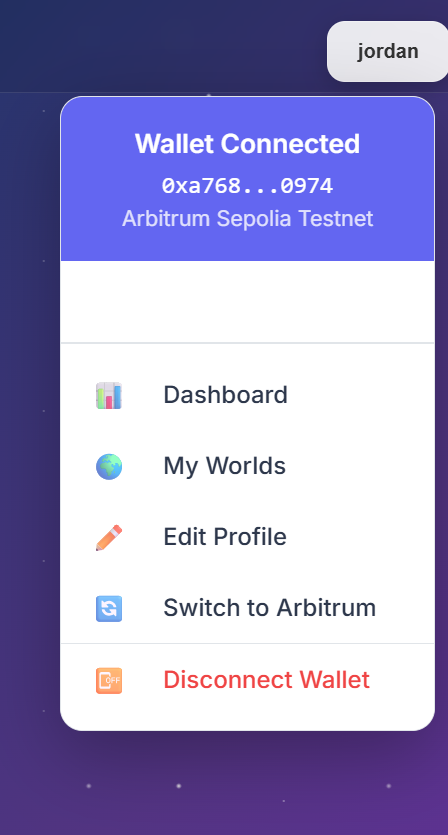
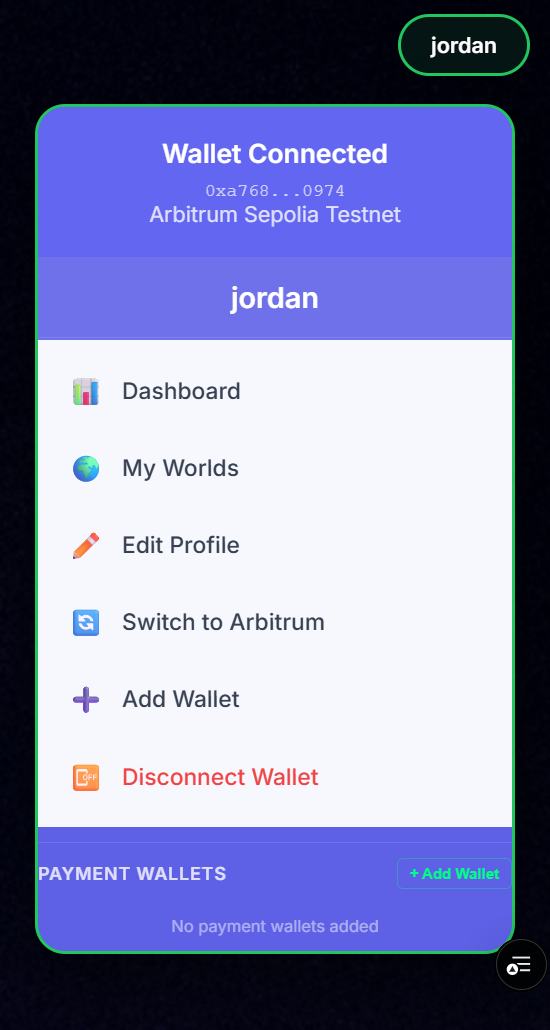
add wallet fix

diff --git a/profile-setup.html b/profile-setup.html
@@ -9,6 +9,7 @@
     <link href="https://fonts.googleapis.com/css2?family=Inter:wght@300;400;500;600;700;800&family=Space+Grotesk:wght@300;400;500;600;700&display=swap" rel="stylesheet">
     <link rel="stylesheet" href="css/styles.css">
     <link rel="stylesheet" href="css/profile.css">
+    <link rel="stylesheet" href="css/multi-wallet.css">
 </head>
 <body class="profile-setup-page">
     <div class="bg" id="bg"></div>
@@ -111,8 +112,93 @@
                     </div>
                 </div>
 
-                <!-- Step 3: Preferences -->
+                <!-- Step 3: Wallet Management -->
                 <div class="form-step" id="step3">
+                    <h2>💳 Payment Wallets</h2>
+                    <p class="step-description">Add wallets to receive tips and payments from your audience (optional)</p>
+                    
+                    <div class="wallet-management-section">
+                        <div class="primary-wallet-info">
+                            <div class="wallet-item primary-wallet">
+                                <div class="wallet-icon">🔗</div>
+                                <div class="wallet-info">
+                                    <div class="wallet-label">Primary Wallet (ETH)</div>
+                                    <div class="wallet-address" id="primaryWalletAddress">Loading...</div>
+                                    <div class="wallet-note">Used for authentication and account ownership</div>
+                                </div>
+                                <div class="wallet-badge">Primary</div>
+                            </div>
+                        </div>
+                        
+                        <div class="secondary-wallets">
+                            <div class="wallet-section-header">
+                                <h3>Additional Payment Wallets</h3>
+                                <button type="button" class="add-wallet-btn" onclick="showAddWalletForm()">
+                                    ➕ Add Wallet
+                                </button>
+                            </div>
+                            
+                            <div id="walletsList" class="wallets-list">
+                                <!-- Wallets will be dynamically loaded here -->
+                            </div>
+                            
+                            <div id="addWalletForm" class="add-wallet-form" style="display: none;">
+                                <div class="form-group">
+                                    <label for="walletType">Wallet Type</label>
+                                    <select id="walletType" class="form-input" onchange="updateWalletTypeUI()">
+                                        <option value="">Select wallet type...</option>
+                                        <option value="bitcoin">₿ Bitcoin</option>
+                                        <option value="solana">◎ Solana</option>
+                                    </select>
+                                </div>
+                                
+                                <div class="form-group" id="walletAddressGroup" style="display: none;">
+                                    <label for="walletAddress">Wallet Address</label>
+                                    <input type="text" id="walletAddress" class="form-input" 
+                                           placeholder="Enter wallet address..."
+                                           oninput="validateWalletAddress()">
+                                    <div id="walletValidation" class="validation-message" style="display: none;"></div>
+                                </div>
+                                
+                                <div class="form-group" id="walletLabelGroup" style="display: none;">
+                                    <label for="walletLabel">Label (Optional)</label>
+                                    <input type="text" id="walletLabel" class="form-input" 
+                                           placeholder="e.g., Main Bitcoin Wallet">
+                                </div>
+                                
+                                <div class="form-group" id="walletNetworkGroup" style="display: none;">
+                                    <label for="walletNetwork">Network</label>
+                                    <select id="walletNetwork" class="form-input">
+                                        <option value="mainnet">Mainnet</option>
+                                        <option value="testnet">Testnet</option>
+                                    </select>
+                                </div>
+                                
+                                <div class="form-actions">
+                                    <button type="button" class="btn-secondary" onclick="cancelAddWallet()">
+                                        Cancel
+                                    </button>
+                                    <button type="button" id="addWalletSubmitBtn" class="btn-primary" 
+                                            onclick="addWallet()" disabled>
+                                        Add Wallet
+                                    </button>
+                                </div>
+                            </div>
+                        </div>
+                    </div>
+
+                    <div class="form-actions">
+                        <button type="button" class="btn-back" onclick="prevStep()">
+                            Back
+                        </button>
+                        <button type="button" class="btn-next" onclick="nextStep()">
+                            Continue
+                        </button>
+                    </div>
+                </div>
+
+                <!-- Step 4: Preferences -->
+                <div class="form-step" id="step4">
                     <h2>Preferences</h2>
                     
                     <div class="form-group">
@@ -170,8 +256,8 @@
                     </div>
                 </div>
 
-                <!-- Step 4: Terms and Completion -->
-                <div class="form-step" id="step4">
+                <!-- Step 5: Terms and Completion -->
+                <div class="form-step" id="step5">
                     <h2>Almost Done!</h2>
                     
                     <div class="profile-summary" id="profileSummary">
@@ -225,10 +311,14 @@
                 </div>
                 <div class="progress-step" data-step="3">
                     <div class="step-number">3</div>
-                    <div class="step-label">Preferences</div>
+                    <div class="step-label">Wallets</div>
                 </div>
                 <div class="progress-step" data-step="4">
                     <div class="step-number">4</div>
+                    <div class="step-label">Preferences</div>
+                </div>
+                <div class="progress-step" data-step="5">
+                    <div class="step-number">5</div>
                     <div class="step-label">Complete</div>
                 </div>
             </div>
@@ -246,6 +336,10 @@
     <!-- Scripts -->
     <script src="config/api-keys.js"></script>
     <script src="js/genesis-wallet-system.js"></script>
+    <script src="js/multi-wallet-manager.js"></script>
+    <script src="js/bitcoin-wallet-integration.js"></script>
+    <script src="js/multi-wallet-ui.js"></script>
+    <script src="js/multi-wallet-security.js"></script>
     <script src="js/genesis-profile-setup.js"></script>
 </body>
 </html>

diff --git a/css/profile.css b/css/profile.css
@@ -731,3 +731,140 @@
         font-size: 0.8rem;
     }
 }
+
+/* Wallet Management Styles for Profile Setup */
+.wallet-management-section {
+    padding: 20px 0;
+}
+
+.primary-wallet-info {
+    margin-bottom: 30px;
+}
+
+.wallet-item {
+    background: rgba(255, 255, 255, 0.05);
+    border: 1px solid rgba(255, 255, 255, 0.1);
+    border-radius: 12px;
+    padding: 20px;
+    display: flex;
+    align-items: center;
+    gap: 15px;
+    margin-bottom: 10px;
+    transition: all 0.3s ease;
+}
+
+.wallet-item.primary-wallet {
+    background: rgba(34, 197, 94, 0.1);
+    border-color: rgba(34, 197, 94, 0.3);
+}
+
+.wallet-icon {
+    font-size: 24px;
+    width: 50px;
+    height: 50px;
+    background: rgba(255, 255, 255, 0.1);
+    border-radius: 50%;
+    display: flex;
+    align-items: center;
+    justify-content: center;
+}
+
+.wallet-info {
+    flex: 1;
+}
+
+.wallet-label {
+    color: white;
+    font-weight: 600;
+    font-size: 1.1rem;
+    margin-bottom: 5px;
+}
+
+.wallet-address {
+    color: rgba(255, 255, 255, 0.7);
+    font-family: monospace;
+    font-size: 0.9rem;
+    margin-bottom: 5px;
+}
+
+.wallet-note {
+    color: rgba(255, 255, 255, 0.5);
+    font-size: 0.8rem;
+}
+
+.wallet-badge {
+    background: #22c55e;
+    color: white;
+    padding: 4px 12px;
+    border-radius: 20px;
+    font-size: 0.8rem;
+    font-weight: 600;
+}
+
+.wallet-section-header {
+    display: flex;
+    justify-content: space-between;
+    align-items: center;
+    margin-bottom: 20px;
+}
+
+.wallet-section-header h3 {
+    color: white;
+    margin: 0;
+    font-size: 1.2rem;
+}
+
+.add-wallet-btn {
+    background: linear-gradient(135deg, #667eea 0%, #764ba2 100%);
+    color: white;
+    border: none;
+    padding: 10px 16px;
+    border-radius: 8px;
+    cursor: pointer;
+    font-weight: 600;
+    font-size: 0.9rem;
+    transition: all 0.3s ease;
+}
+
+.add-wallet-btn:hover {
+    transform: translateY(-1px);
+    box-shadow: 0 4px 12px rgba(102, 126, 234, 0.3);
+}
+
+.wallets-list {
+    margin-bottom: 20px;
+}
+
+.add-wallet-form {
+    background: rgba(255, 255, 255, 0.05);
+    border: 1px solid rgba(255, 255, 255, 0.1);
+    border-radius: 12px;
+    padding: 20px;
+    margin-top: 15px;
+}
+
+.validation-message {
+    margin-top: 8px;
+    padding: 8px 12px;
+    border-radius: 6px;
+    font-size: 0.9rem;
+}
+
+.validation-message.valid {
+    background: rgba(34, 197, 94, 0.1);
+    border: 1px solid rgba(34, 197, 94, 0.3);
+    color: #22c55e;
+}
+
+.validation-message.invalid {
+    background: rgba(239, 68, 68, 0.1);
+    border: 1px solid rgba(239, 68, 68, 0.3);
+    color: #ef4444;
+}
+
+.step-description {
+    color: rgba(255, 255, 255, 0.7);
+    margin-bottom: 25px;
+    font-size: 1rem;
+    line-height: 1.5;
+}

diff --git a/js/multi-wallet-ui.js b/js/multi-wallet-ui.js
@@ -411,49 +411,9 @@ class MultiWalletUI {
     // ========================================
     
     updateDropdownWalletSection() {
-        const userDropdown = document.getElementById('userDropdown');
-        if (!userDropdown) return;
-        
-        // Find existing wallet section or create it
-        let walletSection = userDropdown.querySelector('.dropdown-wallet-section');
-        
-        if (!walletSection) {
-            walletSection = document.createElement('div');
-            walletSection.className = 'dropdown-wallet-section';
-            
-            // Insert before the last divider
-            const lastDivider = userDropdown.querySelector('.dropdown-divider:last-child');
-            if (lastDivider) {
-                userDropdown.insertBefore(walletSection, lastDivider);
-            } else {
-                userDropdown.appendChild(walletSection);
-            }
-        }
-        
-        const wallets = window.multiWalletManager.getAllWallets();
-        const secondaryWallets = wallets.filter(w => !w.isPrimary);
-        
-        walletSection.innerHTML = `
-            <div class="wallet-section-header">
-                <span class="wallet-section-title">Payment Wallets</span>
-                <button class="add-wallet-dropdown-btn" onclick="multiWalletUI.openModal()">
-                    + Add Wallet
-                </button>
-            </div>
-            ${secondaryWallets.length > 0 ? secondaryWallets.map(wallet => `
-                <div class="dropdown-wallet-item" onclick="multiWalletUI.copyWalletAddress('${wallet.address}')">
-                    <div class="dropdown-wallet-icon">${wallet.metadata?.icon || '🪙'}</div>
-                    <div class="dropdown-wallet-info">
-                        <p class="dropdown-wallet-label">${wallet.label}</p>
-                        <p class="dropdown-wallet-address">${window.multiWalletManager.formatAddress(wallet.address, wallet.type)}</p>
-                    </div>
-                </div>
-            `).join('') : `
-                <div style="text-align: center; padding: 10px; color: rgba(255,255,255,0.5); font-size: 11px;">
-                    No payment wallets added
-                </div>
-            `}
-        `;
+        // Disabled: Payment wallets section removed from dropdown per user request
+        // Wallets are now managed through the profile setup page
+        return;
     }
     
     // ========================================

diff --git a/creator.html b/creator.html
@@ -209,6 +209,10 @@
                     <span class="item-icon">🔄</span>
                     <span class="item-text">Switch to Arbitrum</span>
                 </a>
+                <a href="profile-setup.html?edit=true" class="dropdown-item">
+                    <span class="item-icon">➕</span>
+                    <span class="item-text">Add Wallet</span>
+                </a>
                 
                 <div class="dropdown-divider"></div>
                 

diff --git a/my-worlds.html b/my-worlds.html
@@ -164,6 +164,10 @@
                     <span class="item-icon">🔄</span>
                     <span class="item-text">Switch to Arbitrum</span>
                 </a>
+                <a href="profile-setup.html?edit=true" class="dropdown-item">
+                    <span class="item-icon">➕</span>
+                    <span class="item-text">Add Wallet</span>
+                </a>
                 
                 <div class="dropdown-divider"></div>
                 

diff --git a/dashboard.html b/dashboard.html
@@ -229,7 +229,7 @@
                     <span class="item-icon">🔄</span>
                     <span class="item-text">Switch to Arbitrum</span>
                 </a>
-                <a href="#" class="dropdown-item" onclick="openAddWalletModal()">
+                <a href="profile-setup.html?edit=true" class="dropdown-item">
                     <span class="item-icon">➕</span>
                     <span class="item-text">Add Wallet</span>
                 </a>

diff --git a/index.html b/index.html
@@ -118,7 +118,7 @@
                     <span class="item-icon">🔄</span>
                     <span class="item-text">Switch to Arbitrum</span>
                 </a>
-                <a href="#" class="dropdown-item" onclick="openAddWalletModal()">
+                <a href="profile-setup.html?edit=true" class="dropdown-item">
                     <span class="item-icon">➕</span>
                     <span class="item-text">Add Wallet</span>
                 </a>
